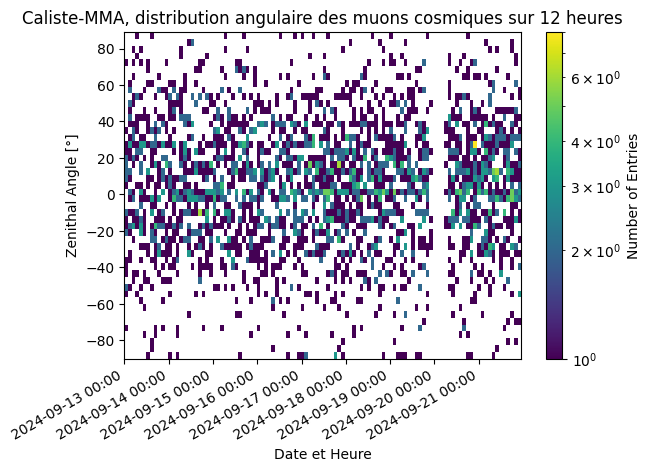
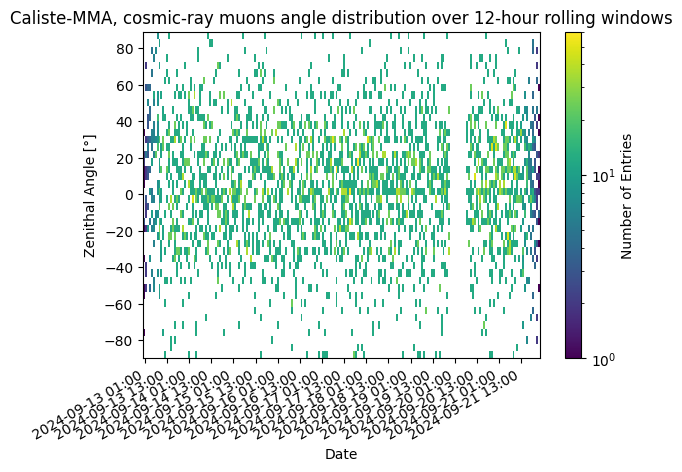
feat : add interpolation to clustering and adding figures

diff --git a/muons_measure.py b/muons_measure.py
@@ -9,6 +9,9 @@ import pandas as pd
 from scipy.optimize import curve_fit
 import matplotlib.dates as mdates
 import seaborn as sns
+from scipy.interpolate import interpn
+from matplotlib.colors import Normalize
+import matplotlib.cm as cm
 
 
 
@@ -134,11 +137,11 @@ plt.legend()
 plt.show()
 
 
-
+#### Muongram ####
 data = pd.DataFrame({'date': date, 'angle': angle})  # Create a DataFrame with date and angle
 data['day'] = data['date'].dt.date  # Extract the day from the date
 angles = data['angle'].values  # Extract angle values
-interval_hours = 1   # Define the interval in hours
+interval_hours = 12   # Define the interval in hours
 total_days = (data['date'].max() - data['date'].min()).days + 1  # Calculate the total number of days
 n_bins_x = total_days * 24 // interval_hours  # Calculate the number of bins for the x-axis
 n_bins_y = int(max(angles)/2)
@@ -154,35 +157,174 @@ plt.xlabel('Date')
 plt.ylabel('Zenithal Angle [°]')  
 plt.title(f'Caliste-MMA, cosmic-ray muons angle distribution over {interval_hours}-hour intervals')  
 plt.show() 
+#################
+
+# Muongram and plot with rolling time interval windows
+data = pd.DataFrame({'date': date, 'angle': angle})
+data['day'] = data['date'].dt.date  
+window_size = 12  # Taille de la fenêtre en heures
+step_size = 1  # Taille du pas en heures
+days = mdates.date2num(data['date'])
+angles = data['angle'].values
+total_hours = int((data['date'].max() - data['date'].min()).total_seconds() // 3600)
+num_windows = total_hours - window_size + 1
+window_dates = []
+window_angles = []
+muons_count = []
+mean_windows_date = []
+for start_hour in range(0, num_windows, step_size):
+    end_hour = start_hour + window_size
+    start_time = data['date'].min() + pd.Timedelta(hours=start_hour)
+    end_time = data['date'].min() + pd.Timedelta(hours=end_hour)
+    window_data = data[(data['date'] >= start_time) & (data['date'] < end_time)]
+    
+    window_dates.extend(mdates.date2num(window_data['date']))
+    window_angles.extend(window_data['angle'])
+    muons_count.append(len(window_data['angle']))
+    mean_windows_date.append(mdates.date2num(window_data['date'].mean()))
+
+n_bins_x = num_windows // step_size
+n_bins_y = int(max(angles) / 2)
+
+plt.figure('muongram')
+plt.hist2d(window_dates, window_angles, bins=[n_bins_x, n_bins_y], cmap='plasma', norm=LogNorm())
+plt.colorbar(label='Number of Entries')
+locator = mdates.HourLocator(interval=window_size)
+plt.gca().xaxis.set_major_locator(locator)
+plt.gca().xaxis.set_major_formatter(mdates.DateFormatter('%Y-%m-%d %H:%M'))
+plt.gcf().autofmt_xdate()
+plt.xlabel('Date')
+plt.ylabel('Zenithal Angle [°]')
+plt.title(f'Caliste-MMA, cosmic-ray muons angle distribution over {window_size}-hour rolling windows')
+plt.show()
+
+plt.figure('debug')
+plt.plot(mean_windows_date, muons_count)
+plt.xlabel('Date')
+plt.title('Muons detected vs Date')
+plt.ylabel('Muons detected')
+plt.gca().xaxis.set_major_locator(locator)
+plt.gca().xaxis.set_major_formatter(mdates.DateFormatter('%Y-%m-%d %H:%M'))
+plt.gcf().autofmt_xdate()
+plt.show()
+
+#################
+
+
+def density_scatter(x, y, ax=None, sort=True, bins=20, cmap='plasma', **kwargs):
+    """
+    Scatter plot colored by 2D histogram with density interpolation.
+    """
+    if ax is None:
+        fig, ax = plt.subplots()
+    data, x_e, y_e = np.histogram2d(x, y, bins=bins, density=True)
+    z = interpn((0.5 * (x_e[1:] + x_e[:-1]), 0.5 * (y_e[1:] + y_e[:-1])), 
+                data, np.vstack([x, y]).T, method="splinef2d", bounds_error=False)
+    z[np.isnan(z)] = 0.0
+
+    if sort:
+        idx = np.argsort(z)  # Sort based on z values
+        x, y, z = np.array(x)[idx], np.array(y)[idx], np.array(z)[idx]
+
+    sc = ax.scatter(x, y, c=z, cmap=cmap, **kwargs)
+
+    norm = Normalize(vmin=np.min(z), vmax=np.max(z))
+    cbar = plt.colorbar(cm.ScalarMappable(norm=norm, cmap=cmap), ax=ax)
+    cbar.ax.set_ylabel('Density')
+
+    return ax
+
+date_numeric = mdates.date2num(date)  # Convert datetime to numeric for compatibility
+# plt.figure('Detected Muon angle vs date with density contours')
+ax = density_scatter(date_numeric, angle, bins=50, cmap='plasma', alpha=0.7)
+ax.set_xlabel('Date [1 minute resolution]')
+ax.set_ylabel('Detected Muon angle [°]')
+ax.xaxis.set_major_locator(locator)
+ax.xaxis.set_major_formatter(mdates.DateFormatter('%Y-%m-%d %H:%M'))
+plt.gcf().autofmt_xdate()
+plt.legend(['Muon angle'])
+plt.show()
 
 
 
 
 
 
-# plot the angle vs date
+
+
+#### plot the angle vs date #####
 plt.figure('detected muon angle vs date')
 plt.plot(date, angle, '.k')
 plt.xlabel('Date [1 minute resolution]')
 plt.ylabel('Detected Muon angle [°]')
 plt.show()
+#################################
 
-# Cluster
+
+##### Cluster on angle of muons vs date #####
 plt.figure('Detected Muon angle vs date with density contours')
 plt.plot(date, angle, '.k', markersize=1, alpha=0.3, label='Muon angle')
 sns.kdeplot(x=date, y=angle, cmap='plasma', fill=True, thresh=0.0, levels=20, linewidths=2.5, alpha = 0.9)
 plt.xlabel('Date [1 minute resolution]')
+plt.gca().xaxis.set_major_locator(locator)
+plt.gca().xaxis.set_major_formatter(mdates.DateFormatter('%Y-%m-%d %H:%M'))
+plt.gcf().autofmt_xdate()
 plt.ylabel('Detected Muon angle [°]')
 plt.legend()
+plt.show()
+#############################################
+
+
+##### Cluster on angle of muons vs date #####
+def density_scatter(x, y, ax=None, sort=True, bins=20, cmap='plasma', **kwargs):
+    """
+    Scatter plot colored by 2D histogram with density interpolation.
+    """
+    if ax is None:
+        fig, ax = plt.subplots()
+    data, x_e, y_e = np.histogram2d(x, y, bins=bins, density=True)
+    z = interpn((0.5 * (x_e[1:] + x_e[:-1]), 0.5 * (y_e[1:] + y_e[:-1])), 
+                data, np.vstack([x, y]).T, method="splinef2d", bounds_error=False)
+    z[np.isnan(z)] = 0.0
+
+    if sort:
+        idx = np.argsort(z)  # Sort based on z values
+        x, y, z = np.array(x)[idx], np.array(y)[idx], np.array(z)[idx]
+
+    sc = ax.scatter(x, y, c=z, cmap=cmap, **kwargs)
+
+    norm = Normalize(vmin=np.min(z), vmax=np.max(z))
+    cbar = plt.colorbar(cm.ScalarMappable(norm=norm, cmap=cmap), ax=ax)
+    cbar.ax.set_ylabel('Density')
+
+    return ax,fig
+
+date_numeric = mdates.date2num(date) 
+ax,fig = density_scatter(date_numeric, angle, bins=50, cmap='plasma', alpha=0.7)
+ax.set_title('Detected Muon angle vs date with density contours using interpolation')
+ax.set_xlabel('Date [1 minute resolution]')
+ax.set_ylabel('Detected Muon angle [°]')
+ax.xaxis.set_major_locator(locator)
+ax.xaxis.set_major_formatter(mdates.DateFormatter('%Y-%m-%d %H:%M'))
+plt.gcf().autofmt_xdate()
+plt.legend(['Muon angle'])
+plt.show()
+#############################################
+
+
 
 # plot the number of muons detected per day
 plt.figure('muons per day')
+unique_days = data['day'].unique()
 plt.hist(date, bins = len(unique_days)*2)
 plt.xlabel('Date')
+plt.gca().xaxis.set_major_locator(locator)
+plt.gca().xaxis.set_major_formatter(mdates.DateFormatter('%Y-%m-%d %H:%M'))
+plt.gcf().autofmt_xdate()
 plt.ylabel('Number of muons detected')
 plt.title('Number of muons detected per day')
 plt.show()
-
+#############################################
 
 n_files = len(Files)
 RealTime = date[-1]-date[0]
